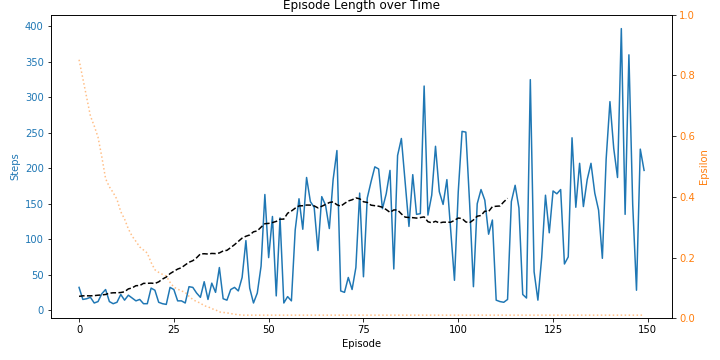
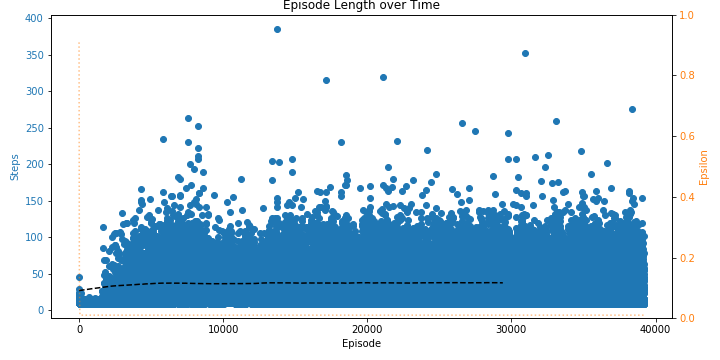
q learning checkpoint

diff --git a/cartpole_lab/qlearn.py b/cartpole_lab/qlearn.py
@@ -1,0 +1,85 @@
+import numpy as np
+from collections import defaultdict, deque
+import random
+
+from .discretizer import Discretizer
+from .agent import Agent
+
+class QLearningPolicy:            
+    def __init__(self, env, learning_rate=0.001, epsilon_start=1, epsilon_min=0.01, epsilon_decay=0.995,
+                 gamma=0.95, memory_size=10000, batch_size=40):
+        """epsilon: probability of exploring by selecting a random action
+        gamma: Discount factor for future rewards. Between 0 - 1.
+        learning_rate: learning rate for the approximator
+        """
+        self.env = env
+        self.epsilon = epsilon_start
+        self.epsilon_min = epsilon_min
+        self.epsilon_decay = epsilon_decay
+        self.learning_rate = learning_rate
+        self.gamma = gamma # Discount factor for future rewards.
+        self.discretizer = Discretizer([(-4, 4), (-4, 4), (-1, 1), (-4, 4)])
+        num_actions = self.env.action_space.n # 2
+        self.qvalues = defaultdict(lambda: np.zeros(num_actions)) # values: expected rewards per action index
+        self.history = deque(maxlen=memory_size)
+        self.batch_size = batch_size
+
+    def suggest_action(self, observation, epsilon=None):
+        if epsilon == None:
+            epsilon = self.epsilon
+        if np.random.uniform() <= epsilon:
+            return self.env.action_space.sample()
+
+        state = self.discretizer.get(observation)
+        expected_rewards = self.qvalues[state] # Rewards for all possible actions
+        # If we haven't seen this state before, select randomly, because argmax returns first always
+        if len(np.nonzero(expected_rewards)) == 0:
+            return self.env.action_space.sample()
+        action = np.argmax(expected_rewards) # Index of the action having the highest rewards.
+        return action
+    
+    def step_completed(self, prev_observation, prev_action, reward, observation, done):
+        # Decay epsilon
+        self.epsilon = max(self.epsilon_min, self.epsilon * self.epsilon_decay)
+
+        # Update Q value
+        prev_state = self.discretizer.get(prev_observation)
+        state = self.discretizer.get(observation)
+        self._sarsa_update(prev_state, prev_action, reward, state, done)
+
+        # Save history
+        self.history.append((prev_state, prev_action, reward, state, done))
+
+        self._experience_replay()
+
+    def _sarsa_update(self, prev_state, prev_action, reward, state, done):
+        prev_q_all = self.qvalues[prev_state]
+        prev_q = prev_q_all[prev_action]
+        q_t1_all = self.qvalues[state] # Q values for time t+1
+        q_t1 = np.max(q_t1_all) # Expected rewards for taking the best action in t+1
+
+        # SARSA update function Sutton and Barto formula 6.7 p. 130
+        prev_q = prev_q + self.learning_rate * (reward + self.gamma * q_t1 - prev_q)
+        prev_q_all[prev_action] = prev_q
+    
+    def _experience_replay(self):
+        if (len(self.history) < self.batch_size):
+            return
+        steps = random.sample(self.history, self.batch_size)
+        for (prev_state, prev_action, reward, state, done) in steps:
+            self._sarsa_update(prev_state, prev_action, reward, state, done)
+    
+    def episode_completed(self, episode):
+        pass
+    
+    def peek(self, state=None):
+        """Returns estimated sum of rewards for the given state. If no state is provided,
+        we'll reset the environment and use the initial state.
+        """
+        if not state:
+            state = self.env.reset()
+        state = self.discretizer.get(state)
+        return self.qvalues[state]
+
+def q_learning(env):
+    return Agent(env, QLearningPolicy(env))

diff --git a/cartpole_lab/agent.py b/cartpole_lab/agent.py
@@ -1,6 +1,7 @@
 from .progress import log_progress
 from .charts import plot_episode_lengths
 import numpy as np
+import time
 
 class Agent:
     def __init__(self, env, policy):
@@ -27,7 +28,8 @@ class Agent:
     def train(self, episodes=100, render=False, epsilon_start=1.0, epsilon_min = 0.01, epsilon_decay=0.995):
         episode_lengths = []
         epsilons = []
-        save_image_every = 20
+        image_update_seconds = 5
+        last_update_time = time.time()
         
         epsilon_orig = self.policy.epsilon # Save the original epsilon, in case we want to do external things with agent later.
         self.policy.epsilon = epsilon_start
@@ -38,9 +40,11 @@ class Agent:
             episode_lengths.append(len(episode))
             epsilons.append(self.policy.epsilon)
             self.policy.episode_completed(episode)
-            if i>0 and i % save_image_every == 0:
-                print('saving')
+            now = time.time()
+            #print(now, now-last_update_time)
+            if now - last_update_time > image_update_seconds:
                 plot_episode_lengths(episode_lengths, epsilons, save=chartfile)
+                last_update_time = now
             
         plot_episode_lengths(episode_lengths, epsilons, save=chartfile)
         print('Max length=%f avg=%f' % (np.max(episode_lengths), np.mean(episode_lengths)))

diff --git a/cartpole_lab/charts.py b/cartpole_lab/charts.py
@@ -35,7 +35,7 @@ def plot_episode_lengths(episode_lengths, epsilons, save=None):
     color = 'tab:blue'
     ax1.set_xlabel('Episode')
     ax1.set_ylabel('Steps', color=color)
-    ax1.plot(episode_lengths, color=color)
+    ax1.plot(episode_lengths, 'o', color=color)
     ax1.tick_params(axis='y', labelcolor=color)
 
     avg_width = int(len(episode_lengths)/4)
